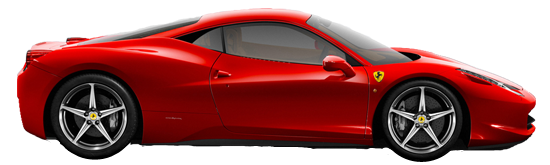
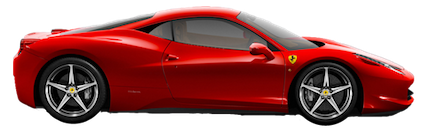
Made the intro page

diff --git a/main.js b/main.js
@@ -38,16 +38,13 @@ function randomOperator(operator) {
   } else if (operator == 2) {
     return "/";
   }
-  else if (operator == 3) {
-    return "x";
-  }
 }
 
 // created a function to randomise qustions. 
 function makeQuestion() {
   var num1 = randomNumber();
   var num2 = randomNumber();
-  var operatorString = randomOperator(Math.floor(Math.random() * 3))
+  var operatorString = randomOperator(Math.floor(Math.random() * 2))
   // creating a statement to randomise operator
   if (operatorString === "+") {
     correctAnswer = num1 + num2;
@@ -55,8 +52,6 @@ function makeQuestion() {
     correctAnswer = num1 - num2;
   } else if (operatorString === "x") {
     correctAnswer = num1 * num2;
-  } else if (operatorString == "/") {
-    correctAnswer = num1 / num2;
   }
   // Every single time you answer the question, new question should refresh
   document.getElementById('question').innerHTML = " ";
@@ -76,8 +71,9 @@ function checkAnswer() {
     moveCar()
     pointsDisplay.innerHTML = points;
     return 'Well done! your answer is right. Keep Moving!';
-  } else {
+  } else if (answer !== correctAnswer) {
     points--;
+    moveCar();
     pointsDisplay.innerHTML = points;
     return 'Damn! your answer is wrong.';
   }
@@ -88,6 +84,14 @@ function appendResult(results) {
   // prints out the response 
   document.getElementById('result').append(results);
 }
+
+document.getElementById('checkAnswer').onkeypress = function (e) {
+  if (e.keyCode == 13) {
+    document.getElementById('linkadd').click();
+  }
+}
+
+// event listener for key press - enter
 
 // after clicking the button, the question box resets with a new question, empty input as well as giving a response for the current answer. 
 document.getElementById('checkAnswer').addEventListener('click', function resetWhenClicked() {
@@ -103,51 +107,82 @@ function moveCar() {
   let car = document.getElementById("carImg")
   switch (points) {
     case 1:
-      car.style.paddingLeft = "25px"
+      car.style.paddingLeft = "30px";
       break;
     case 2:
-      car.style.paddingLeft = "50px"
+      car.style.paddingLeft = "60px"
       break;
-
     case 3:
-      car.style.paddingLeft = "75px"
+      car.style.paddingLeft = "90px"
       break;
-
     case 4:
-      car.style.paddingLeft = "100px"
+      car.style.paddingLeft = "120px"
       break;
-
-    case 2:
-      car.style.paddingLeft = "125px"
-      break;
-
-    case 2:
+    case 5:
       car.style.paddingLeft = "150px"
       break;
-
-    case 2:
-      car.style.paddingLeft = "175px"
+    case 6:
+      car.style.paddingLeft = "180px"
       break;
-
-    case 2:
-      car.style.paddingLeft = "200px"
+    case 7:
+      car.style.paddingLeft = "210px"
       break;
-
-    case 2:
-      car.style.paddingLeft = "225px"
+    case 8:
+      car.style.paddingLeft = "240px"
       break;
-
-    case 2:
-      car.style.paddingLeft = "250px"
+    case 9:
+      car.style.paddingLeft = "270px"
       break;
-
+    case 10:
+      car.style.paddingLeft = "300px"
+      break;
+    case 11:
+      car.style.paddingLeft = "330px"
+      break;
+    case 12:
+      car.style.paddingLeft = "360px"
+      break;
+    case 13:
+      car.style.paddingLeft = "390px"
+      break;
+    case 14:
+      car.style.paddingLeft = "420px"
+      break;
+    case 15:
+      car.style.paddingLeft = "450px"
+      break;
+    case 16:
+      car.style.paddingLeft = "480px"
+      break;
+    case 17:
+      car.style.paddingLeft = "510px"
+      break;
+    case 18:
+      car.style.paddingLeft = "540px"
+      break;
+    case 19:
+      car.style.paddingLeft = "570px"
+      break;
+    case 20:
+      car.style.paddingLeft = "600px"
+      break;
+    case 21:
+      car.style.paddingLeft = "630px"
+      break;
+    case 22:
+      car.style.paddingLeft = "660px"
+      break;
+    case 23:
+      car.style.paddingLeft = "690px"
+      break;
+    case 24:
+      car.style.paddingLeft = "720px"
+      break;
+    case 25:
+      car.style.paddingLeft = "750px"
+      break;
   }
 }
-
-
-
-
-
 
 // When calling this function, you produce the randomised numbers,operator, and set the correct answer as well as append it to the question div
 makeQuestion();
@@ -160,7 +195,7 @@ function countDown() {
     if (timer > 0) { timer--; }
     document.getElementById("timer").innerHTML = timer
     if (timer === 0) {
-      document.getElementById('timeout').innerHTML = " You Lost!";
+      document.getElementById('timeout').innerHTML = " Time Over ";
       // *********************************************************
       document.getElementById('gametitle').style.display = 'none';
       // *********************************************************

diff --git a/main.css b/main.css
@@ -1,5 +1,55 @@
 body {
-  color: #333533;
+  background-color: #333533;
+}
+
+.instructionBox {
+  text-align: center;
+  width: 800px;
+  padding: 100px;
+  border-radius: 12px;
+  background-color: #B40404;
+  position: absolute;
+  left: 0;
+  right: 0;
+  margin: auto;
+  height: 550px;
+  margin-top: 30px;
+}
+
+.welcome {
+  font-family:"Lucida Sans Unicode", "Lucida Grande", sans-serif;
+  color: white;
+  font-size: 60px;
+  padding-top: -100px;
+
+}
+
+.paragraph {
+  font-family:"Lucida Sans Unicode", "Lucida Grande", sans-serif;
+  color: white;
+  font-size: 20px;
+
+}
+
+.letsRace {
+  font-family:"Lucida Sans Unicode", "Lucida Grande", sans-serif;
+  color: white;
+  background-color: #2E0014;
+  border-color: solid white;
+  font-size: 40px;
+  text-decoration: none;
+  text-align: center;
+  border-radius: 12px;
+}
+a:link {
+  text-decoration: none;
+  text-decoration: white;
+}
+
+#fcover {
+  position: absolute;
+  bottom: 0;
+  margin-right: 1000px;
 }
 
 .timer {
@@ -12,6 +62,7 @@ body {
   font-size: 50px;
   font-family: "Lucida Sans Unicode", "Lucida Grande", sans-serif;
   color: white;
+  padding-top: -20px;
 }
 
 .gametitle {
@@ -39,6 +90,7 @@ body {
 
 .buttonbox {
   padding-top: 20px;
+  padding-bottom: 20px;
   font-family: "Lucida Sans Unicode", "Lucida Grande", sans-serif;
 }
 
@@ -62,12 +114,29 @@ body {
 .questionbox {
   text-align: center;
   width: 600px;
-  padding: 60px;
+  padding: 30px;
   border-radius: 12px;
   background-color: #B40404;
+  position: absolute;
+  left: 0;
+  right: 0;
+  margin: auto;
+  height: 550px;
 }
 
-img {
+.car {
   padding-top: 50px;
   width: 300px;
+  position: absolute;
+  bottom: 0;
+  margin: auto;
+}
+
+.FinishLinec {
+  position: absolute;
+  right: 0;
+  bottom: 0;
+  width: -100px;
+  
+
 }

diff --git a/index.html b/index.html
@@ -1,34 +1,23 @@
+<!DOCTYPE html>
+<html>
+
 <head>
   <meta charset="utf-8" />
   <meta http-equiv="X-UA-Compatible" content="IE=edge">
-  <title>Page Title</title>
+  <title>Home Page </title>
   <meta name="viewport" content="width=device-width, initial-scale=1">
   <link rel="stylesheet" type="text/css" media="screen" href="main.css" />
 </head>
 
 <body>
-  <div class="questionbox">
-    <div class="timer">
-      <p id="timer">60</p>
+  <div class="instructionBox">
+    <h1 class="welcome">Welcome</h1><br>
+    <div>
+      <p class="paragraph">Hello Guys! Welcome to level 1, the instructions are simple, answer the questions by typing
+        your answer in the input and race your car to the finishing line! </p>
     </div>
-    <div id="timeout"></div>
-    <div class="finish">
-      <h1 class="gametitle">VROOM VROOM, Hurry up and answer the questions! </h1>
-      <div id="question"></div>
-      <div class="input">
-        <input type="text" id="answer" autofocus>
-      </div>
-      <div class="scorebox">Score : <span id="points">0</span></div>
-      <div class="buttonbox">
-        <button class="button" id="checkAnswer">Check Answer</button>
-      </div>
-      <div class="results">
-        <div id="result"></div>
-      </div>
-    </div>
-  </div>
-  <div id="carImg" class="car">
-    <img src="ferrari_PNG10674.png" alt="carImage">
+    <div class="letsRace"><a href="/game.html" style="color: #ffffff">Let's Race!</a></div>
+    <img id="fcover" src="/ferrari_cover.png" alt="">
   </div>
   <script src="main.js"></script>
 </body>

diff --git a/game.html b/game.html
@@ -1,0 +1,39 @@
+<head>
+  <meta charset="utf-8" />
+  <meta http-equiv="X-UA-Compatible" content="IE=edge">
+  <title>Page Title</title>
+  <meta name="viewport" content="width=device-width, initial-scale=1">
+  <link rel="stylesheet" type="text/css" media="screen" href="main.css" />
+</head>
+
+<body>
+  <div class="questionbox">
+    <div class="timer">
+      <p id="timer">60</p>
+    </div>
+    <div class="timeout" id="timeout"></div>
+    <div class="finish">
+      <h1 class="gametitle">VROOM VROOM, Hurry up and answer the questions! </h1>
+      <div id="question"></div>
+      <div class="input">
+        <input type="text" id="answer" autofocus>
+      </div>
+      <div class="scorebox">Score : <span id="points">0</span></div>
+      <div class="buttonbox">
+        <button class="button" id="checkAnswer">Check Answer</button>
+      </div>
+      <div class="results">
+        <div id="result"></div>
+      </div>
+    </div>
+  </div>
+  <div id="carImg" class="car">
+    <img src="ferrari_PNG10674.png" alt="carImage">
+  </div>
+  <div id="finishLine" class="FinishLinec">
+    <img src="finishing-line-png.png" alt="finishLine">
+  </div>
+  <script src="main.js"></script>
+</body>
+
+</html>
